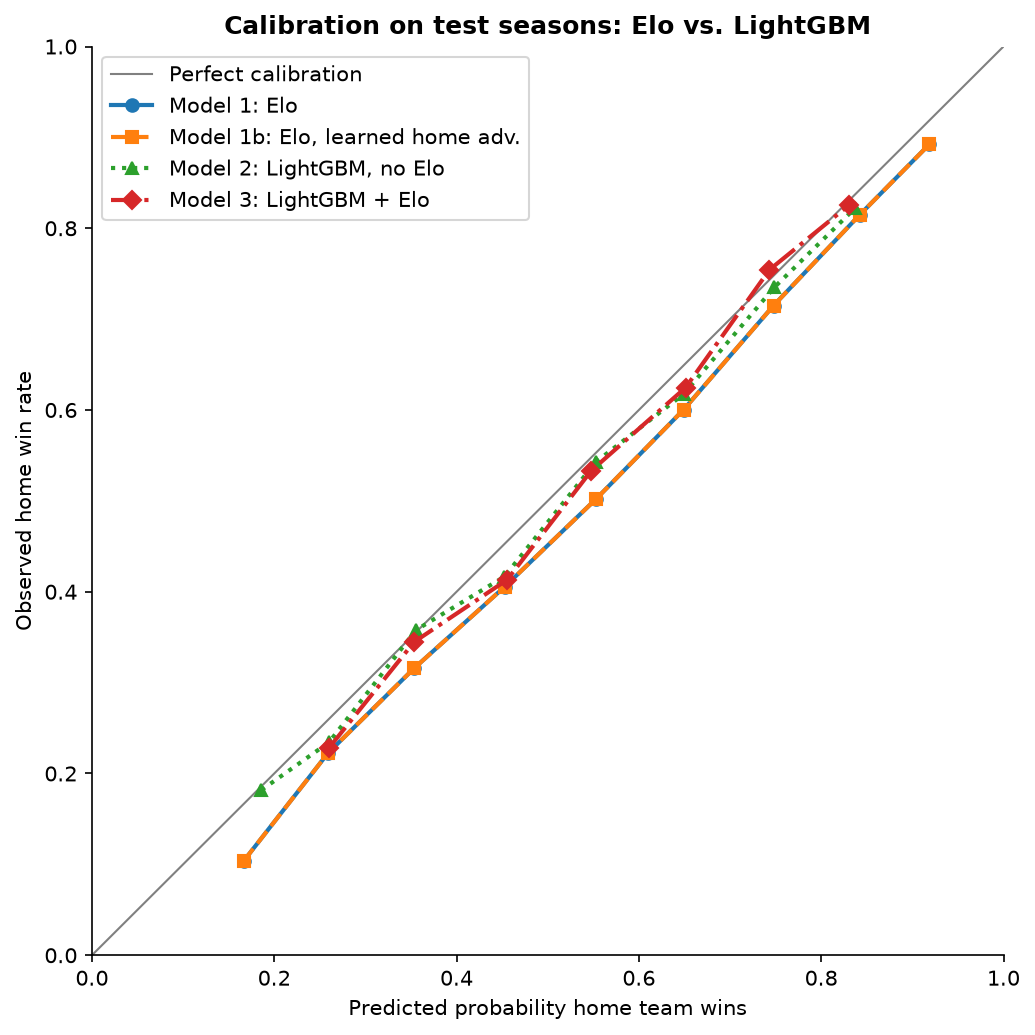
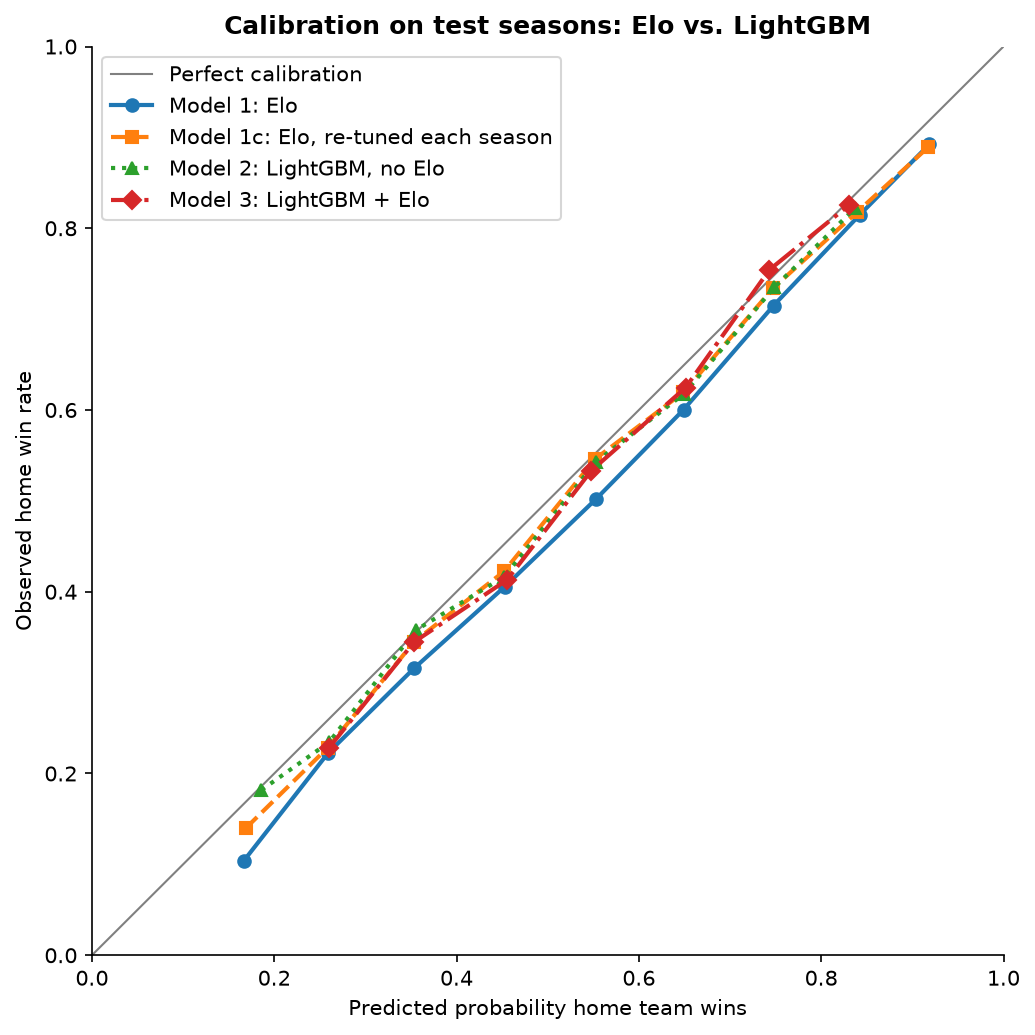
Step 2 results with Model 1c (exploratory)

diff --git a/results/summary_step2.md b/results/summary_step2.md
@@ -3,6 +3,7 @@
 ## Settings (chosen on tune seasons only)
 - Model 1: K = 15, home advantage = 75 Elo points (fixed)
 - Model 1b: K = 15, starting home advantage = 75, home-advantage learning rate = 0
+- Model 1c (exploratory, re-tuned before each test season on all earlier seasons): 2019-20: K = 15, home adv. = 75, 2020-21: K = 15, home adv. = 75, 2021-22: K = 15, home adv. = 50, 2022-23: K = 15, home adv. = 50, 2023-24: K = 15, home adv. = 50, 2024-25: K = 15, home adv. = 50, 2025-26: K = 15, home adv. = 50
 - Model 2 (LightGBM, no Elo): {'num_leaves': 16, 'min_child_samples': 200, 'n_estimators': 200}
 - Model 3 (LightGBM + Elo): {'num_leaves': 4, 'min_child_samples': 50, 'n_estimators': 200}
 
@@ -12,11 +13,13 @@
 | All test seasons | Model 0: home win rate | 8289 | 0.5517 | 0.6889 | 0.2478 |
 | All test seasons | Model 1: Elo | 8289 | 0.6457 | 0.6283 | 0.2192 |
 | All test seasons | Model 1b: Elo, learned home adv. | 8289 | 0.6457 | 0.6283 | 0.2192 |
+| All test seasons | Model 1c: Elo, re-tuned each season | 8289 | 0.6503 | 0.6254 | 0.2180 |
 | All test seasons | Model 2: LightGBM, no Elo | 8289 | 0.6448 | 0.6321 | 0.2209 |
 | All test seasons | Model 3: LightGBM + Elo | 8289 | 0.6515 | 0.6258 | 0.2181 |
 | Excluding 2019-20 & 2020-21 | Model 0: home win rate | 6150 | 0.5532 | 0.6881 | 0.2475 |
 | Excluding 2019-20 & 2020-21 | Model 1: Elo | 6150 | 0.6512 | 0.6240 | 0.2172 |
 | Excluding 2019-20 & 2020-21 | Model 1b: Elo, learned home adv. | 6150 | 0.6512 | 0.6240 | 0.2172 |
+| Excluding 2019-20 & 2020-21 | Model 1c: Elo, re-tuned each season | 6150 | 0.6574 | 0.6202 | 0.2156 |
 | Excluding 2019-20 & 2020-21 | Model 2: LightGBM, no Elo | 6150 | 0.6486 | 0.6262 | 0.2181 |
 | Excluding 2019-20 & 2020-21 | Model 3: LightGBM + Elo | 6150 | 0.6558 | 0.6206 | 0.2156 |
 
@@ -27,23 +30,27 @@ Negative mean_diff = the first model is better. A gap counts only if the 95% int
 |---|---|---|---|---|---|
 | All test seasons | H2 (as registered): Model 3 minus Model 1 | -0.0025 | -0.0047 | -0.0004 | 0.9880 |
 | All test seasons | Fair check: Model 3 minus Model 1b | -0.0025 | -0.0047 | -0.0004 | 0.9880 |
+| All test seasons | Exploratory: Model 3 minus Model 1c | 0.0004 | -0.0014 | 0.0021 | 0.3500 |
 | All test seasons | H3: Model 2 minus Model 3 | 0.0064 | 0.0041 | 0.0087 | 0.0000 |
 | All test seasons | Model 1b minus Model 1 | 0.0000 | 0.0000 | 0.0000 | 0.0000 |
+| All test seasons | Exploratory: Model 1c minus Model 1 | -0.0029 | -0.0041 | -0.0016 | 1.0000 |
 | Excluding 2019-20 & 2020-21 | H2 (as registered): Model 3 minus Model 1 | -0.0034 | -0.0061 | -0.0009 | 0.9955 |
 | Excluding 2019-20 & 2020-21 | Fair check: Model 3 minus Model 1b | -0.0034 | -0.0061 | -0.0009 | 0.9955 |
+| Excluding 2019-20 & 2020-21 | Exploratory: Model 3 minus Model 1c | 0.0004 | -0.0016 | 0.0024 | 0.3500 |
 | Excluding 2019-20 & 2020-21 | H3: Model 2 minus Model 3 | 0.0056 | 0.0031 | 0.0081 | 0.0000 |
 | Excluding 2019-20 & 2020-21 | Model 1b minus Model 1 | 0.0000 | 0.0000 | 0.0000 | 0.0000 |
+| Excluding 2019-20 & 2020-21 | Exploratory: Model 1c minus Model 1 | -0.0038 | -0.0055 | -0.0022 | 1.0000 |
 
 ## Log loss by season
-| season | n_games | home_win_rate | Model 0 | Model 1 | Model 1b | Model 2 | Model 3 |
-|---|---|---|---|---|---|---|---|
-| 2019-20 | 1059 | 0.5515 | 0.6900 | 0.6295 | 0.6295 | 0.6350 | 0.6315 |
-| 2020-21 | 1080 | 0.5435 | 0.6919 | 0.6511 | 0.6511 | 0.6633 | 0.6497 |
-| 2021-22 | 1230 | 0.5439 | 0.6912 | 0.6387 | 0.6387 | 0.6470 | 0.6366 |
-| 2022-23 | 1230 | 0.5805 | 0.6803 | 0.6460 | 0.6460 | 0.6452 | 0.6426 |
-| 2023-24 | 1230 | 0.5431 | 0.6911 | 0.6174 | 0.6174 | 0.6210 | 0.6159 |
-| 2024-25 | 1230 | 0.5439 | 0.6905 | 0.6156 | 0.6156 | 0.6146 | 0.6093 |
-| 2025-26 | 1230 | 0.5545 | 0.6875 | 0.6025 | 0.6025 | 0.6031 | 0.5988 |
+| season | n_games | home_win_rate | Model 0 | Model 1 | Model 1b | Model 1c | Model 2 | Model 3 |
+|---|---|---|---|---|---|---|---|---|
+| 2019-20 | 1059 | 0.5515 | 0.6900 | 0.6295 | 0.6295 | 0.6295 | 0.6350 | 0.6315 |
+| 2020-21 | 1080 | 0.5435 | 0.6919 | 0.6511 | 0.6511 | 0.6511 | 0.6633 | 0.6497 |
+| 2021-22 | 1230 | 0.5439 | 0.6912 | 0.6387 | 0.6387 | 0.6331 | 0.6470 | 0.6366 |
+| 2022-23 | 1230 | 0.5805 | 0.6803 | 0.6460 | 0.6460 | 0.6457 | 0.6452 | 0.6426 |
+| 2023-24 | 1230 | 0.5431 | 0.6911 | 0.6174 | 0.6174 | 0.6125 | 0.6210 | 0.6159 |
+| 2024-25 | 1230 | 0.5439 | 0.6905 | 0.6156 | 0.6156 | 0.6104 | 0.6146 | 0.6093 |
+| 2025-26 | 1230 | 0.5545 | 0.6875 | 0.6025 | 0.6025 | 0.5993 | 0.6031 | 0.5988 |
 
 ## Share of LightGBM gain by feature group
 | group | p_lgb_no_elo | p_lgb_elo |
@@ -56,4 +63,4 @@ Negative mean_diff = the first model is better. A gap counts only if the 95% int
 
 ![Calibration](calibration_step2.png)
 
-![Learned home advantage](home_advantage_learned.png)
+![Home advantage by season](home_advantage_by_season.png)
